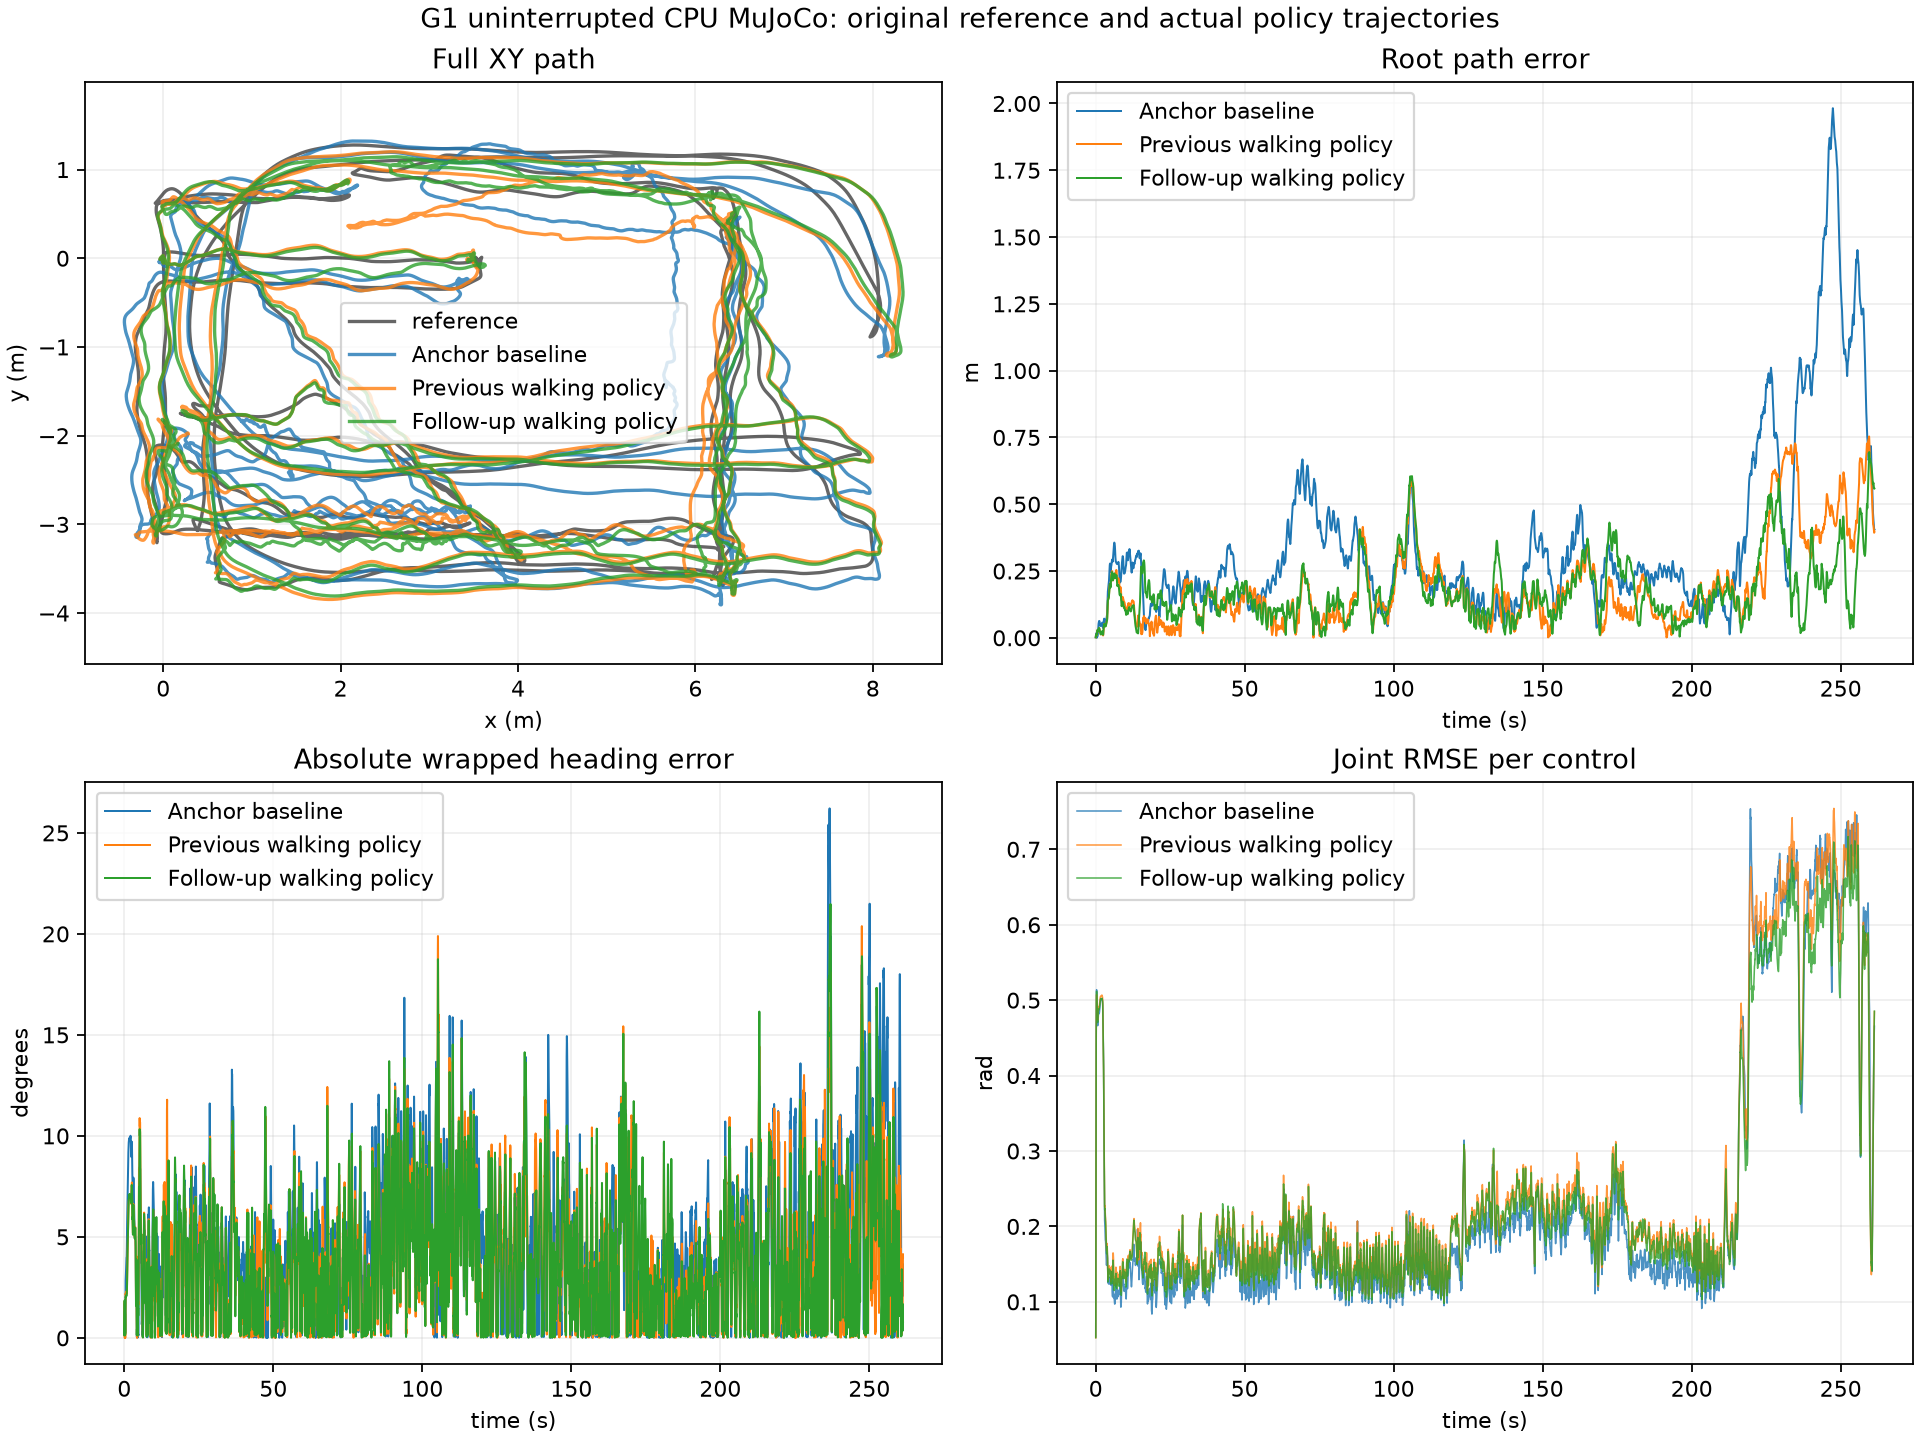
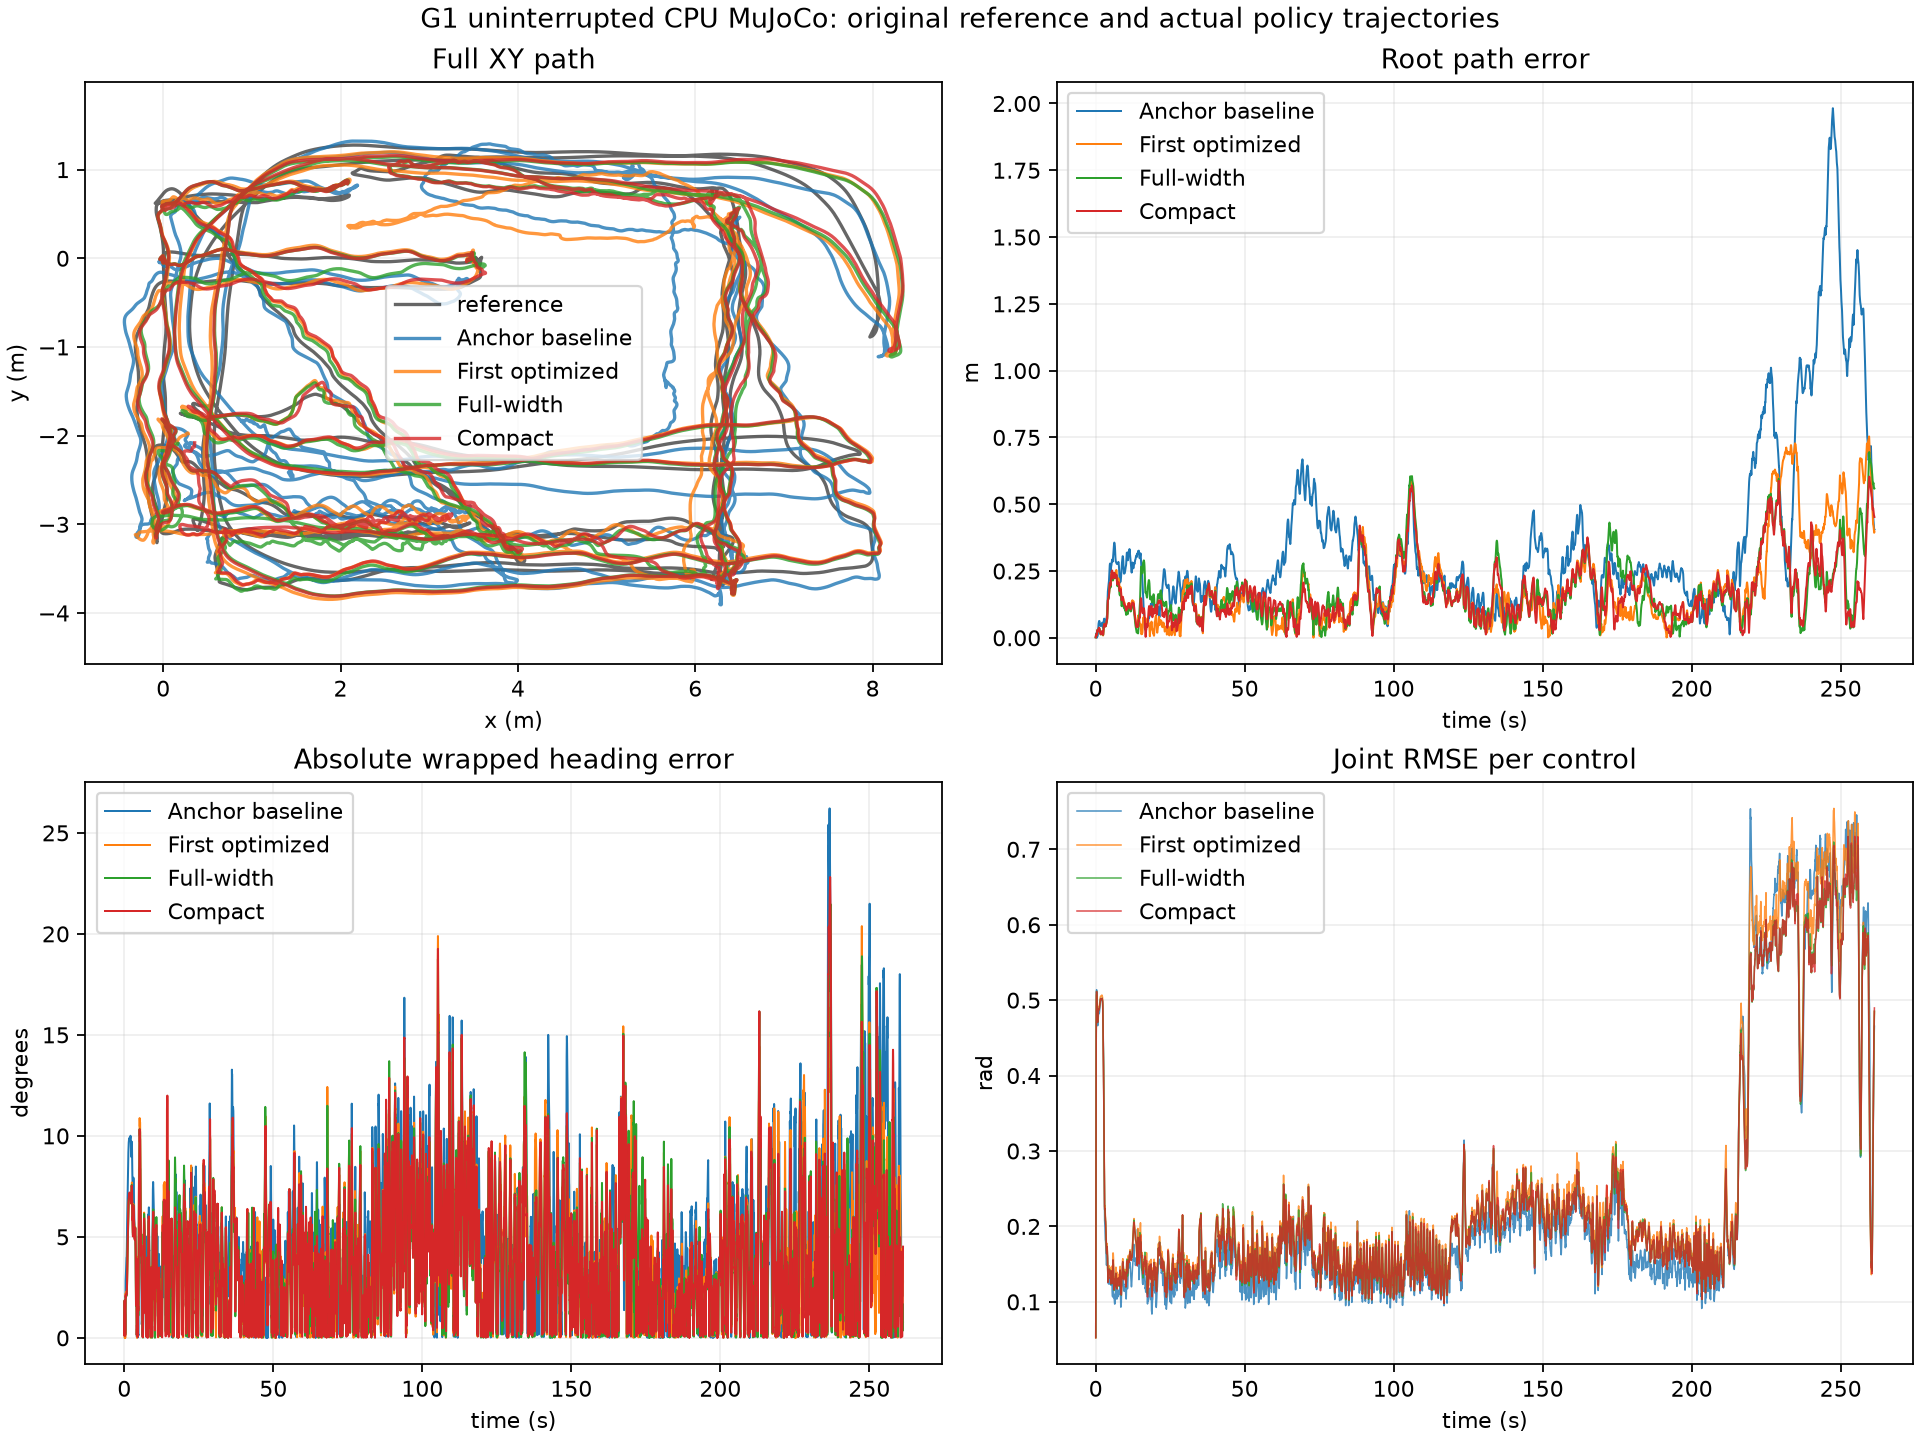
docs: compare all four verified walking policies

diff --git a/docs/demos/WALK_OPTIMIZATION.md b/docs/demos/WALK_OPTIMIZATION.md
@@ -13,7 +13,7 @@
 
 平面 RMSE 降低 49.7%。优化策略对第 48,605 次和第 56,385 次迭代的策略参数作等权插值。用同一推理包独立复跑了完整参考，产出的 `trajectory.npz` 与首次评测逐字节相同。从本机推理参数重新导出后，完整复跑也得到相同轨迹。当时的演示截取了这次独立复跑的第 245–250 秒。
 
-![锚点反馈基线、首次优化及后续优化的完整行走轨迹和误差](walk-comparison.png)
+![锚点反馈基线、首次优化、全宽和紧凑策略的完整行走轨迹和误差](walk-comparison.png)
 
 ## 选型
 
